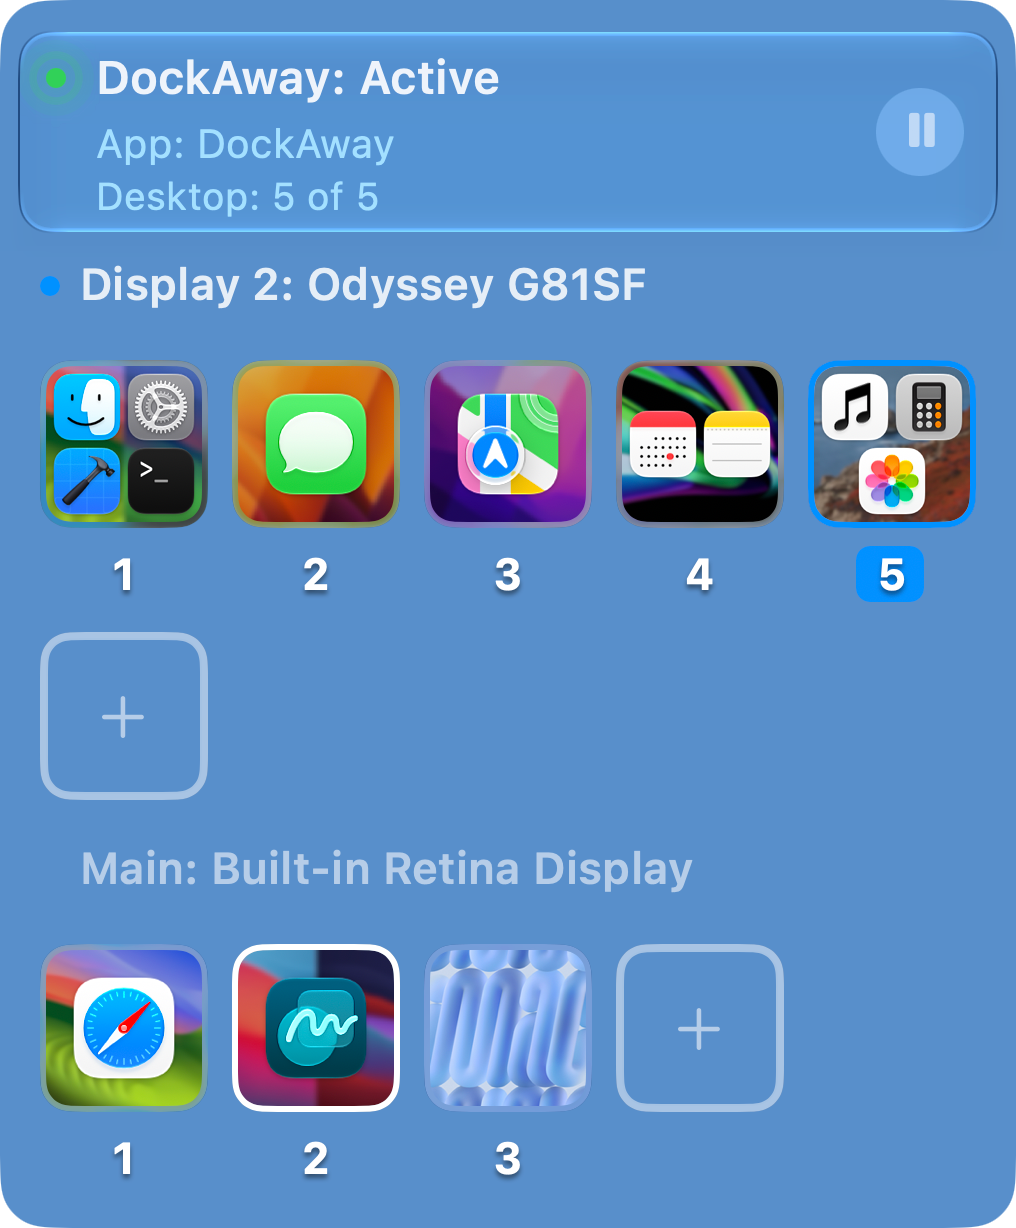
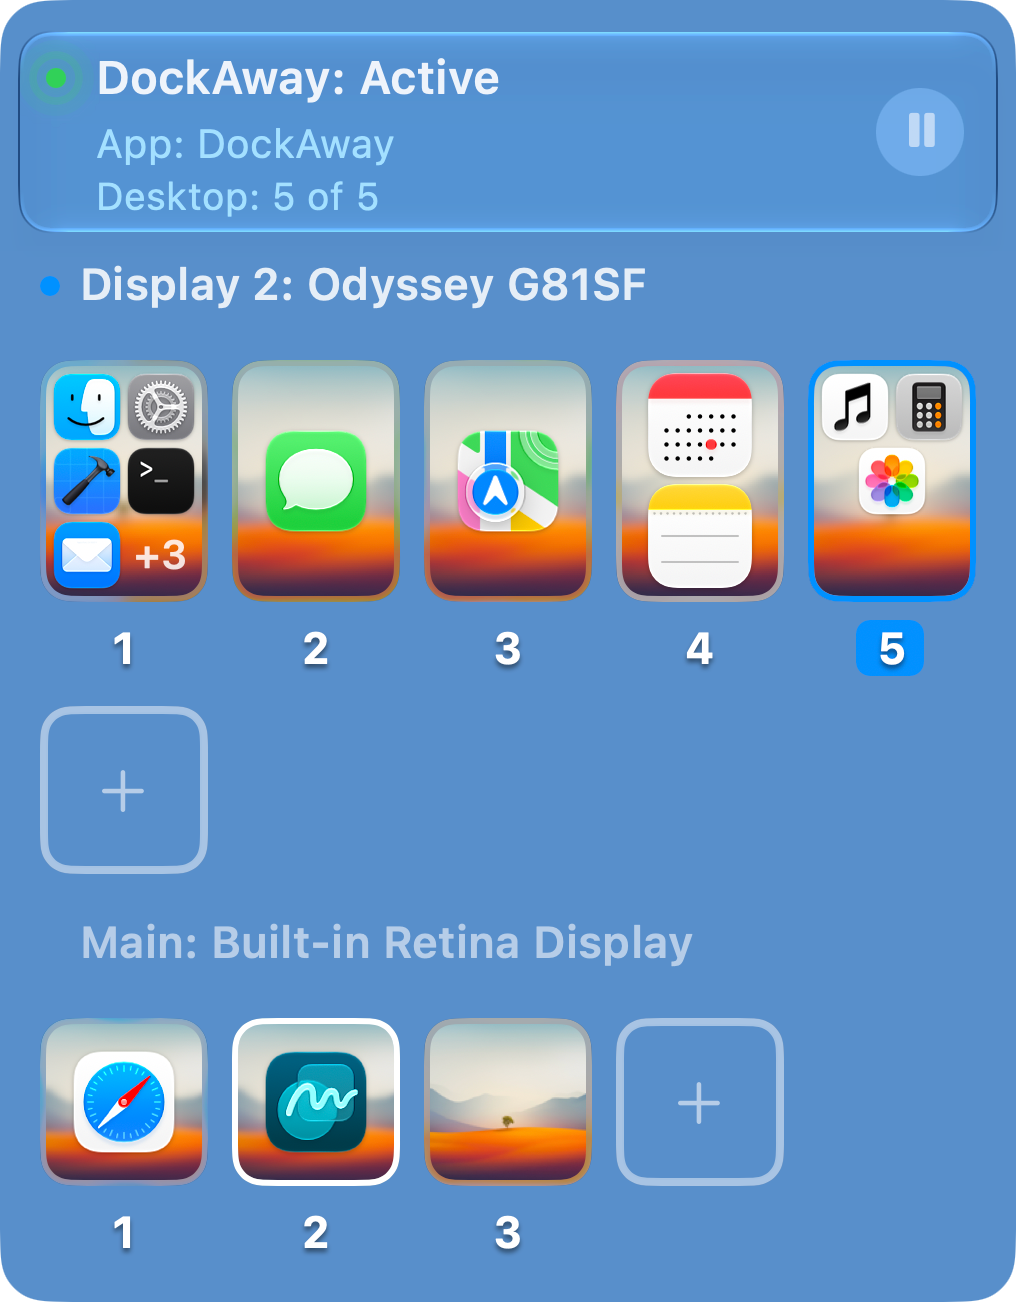
Reissue DockAway 2.1.6

Changed region(s): [[0.0, 0.0, 0.9764, 0.9593], [0.6102, 0.8974, 0.7628, 0.9283], [0.6713, 0.8355, 0.7018, 0.8664]]

diff --git a/DockAway/DesktopSwitcher.swift b/DockAway/DesktopSwitcher.swift
@@ -830,10 +830,10 @@ final class DesktopWallpaperThumbnails {
         return canRead(url) ? url : nil
     }
 
-    /// A very slight blur, about a point once the picture is in its box.
+    /// A slight blur, about a point and a half once the picture is in its box.
     private nonisolated static func blurred(_ image: CGImage) -> CGImage? {
         let source = CIImage(cgImage: image)
-        let blurred = source.clampedToExtent().applyingGaussianBlur(sigma: 1.6).cropped(to: source.extent)
+        let blurred = source.clampedToExtent().applyingGaussianBlur(sigma: 2.4).cropped(to: source.extent)
         return CIContext(options: [.cacheIntermediates: false]).createCGImage(blurred, from: source.extent)
     }
 
@@ -1219,11 +1219,6 @@ final class DesktopTileButton: NSButton {
                                width: size.width * scale, height: size.height * scale)
             NSGraphicsContext.current?.imageInterpolation = .high
             wallpaper.draw(in: drawn, from: .zero, operation: .sourceOver, fraction: 1, respectFlipped: true, hints: nil)
-            if !icons.isEmpty {
-                // Dimmed a little too, so the icons stand out from it.
-                NSColor.black.withAlphaComponent(0.15).setFill()
-                bounds.fill(using: .sourceOver)
-            }
             NSGraphicsContext.restoreGraphicsState()
         } else if icons.isEmpty, !representsFullscreenSpace {
             // A desktop with no apps gets a faint fill, so its box still
